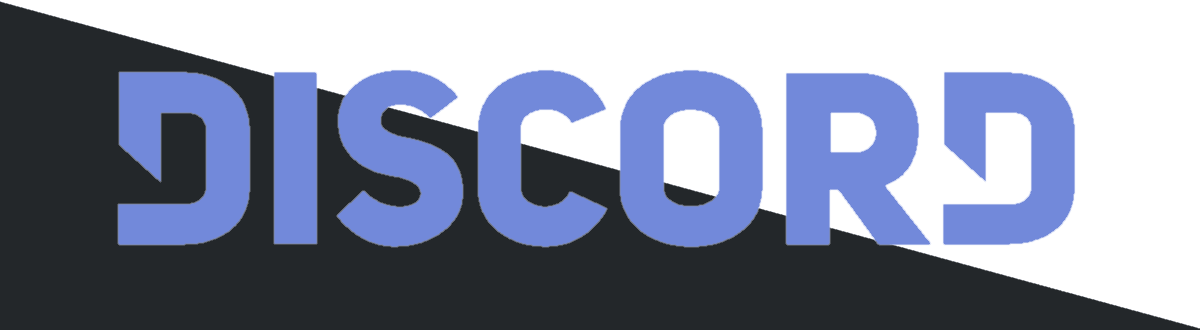
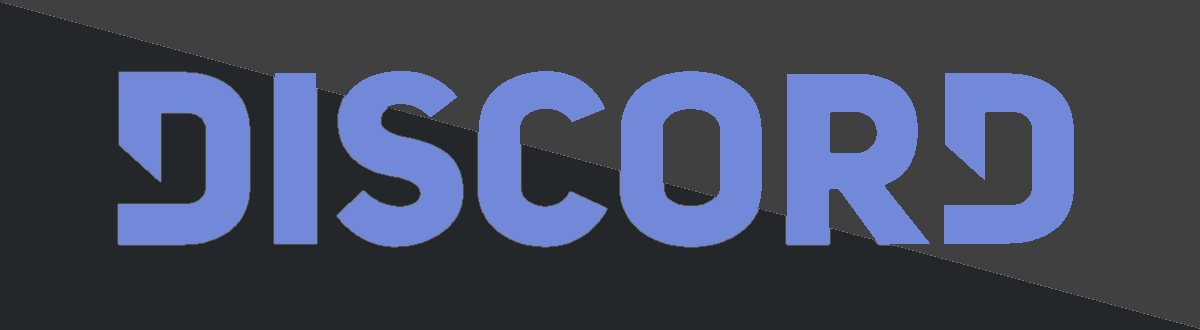
7

diff --git a/index.html b/index.html
@@ -4,38 +4,14 @@
     <head>
         <meta charset="UTF-8">
         <style>
-            figure.snip1432 { background: #000000; }
-
-            figure.snip1432 * {
-            -webkit-box-sizing: border-box;
-            box-sizing: border-box;
-            -webkit-transition: all 0.6s ease;
-            transition: all 0.6s ease;
-            }
-
-            figure.snip1432 img {
-            opacity: 1;
-            width: 100%;
-            vertical-align: top;
-            -webkit-transition: opacity 0.1s;
-            transition: opacity 0.1s;
-            }
-
-            figure.snip1432:hover img,
-            figure.snip1432.hover img { opacity: 0.5; }
-
-            figure.snip1432 {
-                width: 180px;
-                position: relative;
-                top: 10px;
-            }
 
             body {
                 background-image: url('Imgs/background.png');
                 background-repeat: no-repeat;
-                background-position: right bottom;
+                background-position: right;
                 background-size: 40vw;
-                background-color: #333;
+
+                background-position-y: 1cm;
             }
 
             @font-face{ font-family:'NotoSans-Thin'; src: url('Fonts/NotoSansCJKkr-Thin.otf'); }
@@ -44,7 +20,7 @@
             .font-I {
                 color: #fff;
                 font-family: 'NotoSans-Thin';
-                font-size: 2.1Vw
+                font-size: 1.9Vw
             }
 
             .see {
@@ -59,7 +35,6 @@
                 padding: 0;
                 height: 46px;
                 background: linear-gradient( to left, #FF03E2, #03AAFE );   
-                border-radius: 10px;
             }
 
             ul:after {
@@ -75,13 +50,16 @@
                 color: white;
                 font-family: 'NotoSans-Bold';
                 text-align: center;
-                padding: 14px;
+                padding: 12px;
+                font-size: 16px;
                 text-decoration: none;
             }
 
             .active{ background-color: #0004; }
 
             li a:hover:not(.active){ background-color: #0002; }
+
+            #menu {background-color: #03AAFE;}
 
         </style>
         <script>
@@ -90,34 +68,20 @@
 
     <body>
         <ul>
-            <li><a href="#소개" title="소개">소개</a></li>
-            <li><a href="#후원" title="후원">후원</a></li>
-            <li><a href="#유튜브" title="유튜브">유튜브</a></li>
+            <li><a href="#int" title="소개">소개</a></li>
+            <li><a href="#don" title="후원">후원</a></li>
+            <li><a href="#ytb" title="유튜브">유튜브</a></li>
             <li><a href="#FnQ" title="FnQ">FnQ</a></li>
+            <li><a href="#dis" title="디스코드">디스코드</a></li>
+            <li><a href="#ark" title="아카이브">아카이브</a></li>
+            <li><a href="#rib" title="라이브러리">라이브러리</a></li>
+            <li><a href="#ema" title="이메일">이메일</a></li>
         </ul>
 
-        <div class= "see">
-            <div class="font-I">
-안녕하세요 라비입니다.<!--<br>
-<br>
-프로젝트 공유 주기: 2주<br>
-스크래치 접속 주기: 2일<br>
-카러플 접속 주기: 되도록 매일<br>
-영상 독학: 미뤄둠<br>
-fl studio 독학: 되도록 2일<br>
-코딩(html, css, js, py) 독학: 불규칙<br>
-유튜브 동영상 업로드 주기: 불규칙<br>
-유튜브 스트리밍 주기: 불규칙, 추후에 주마다 시행 할 예정<br>
-<br>
-관심분야: 보고 듣는걸 창조하는 것-->
-            </div>
+        <a href="#menu">메뉴</a>
 
-            <a href="https://discord.gg/t8jtUfp" title="디스코드 친구추가">
-                <figure class="snip1432"><img src="Imgs/btn-I.png"></figure>
-            </a>
-            <a href="mailto:npt1237@gmail.com" title= "이메일 보내기">
-                <figure class="snip1432"><img src="Imgs/btn-II.png"></figure>
-            </a>
+        <div class= "see">
+            <div class="font-I">안녕하세요 저는 라비입니다.</div>
         </div>
     </body>
 </html>
